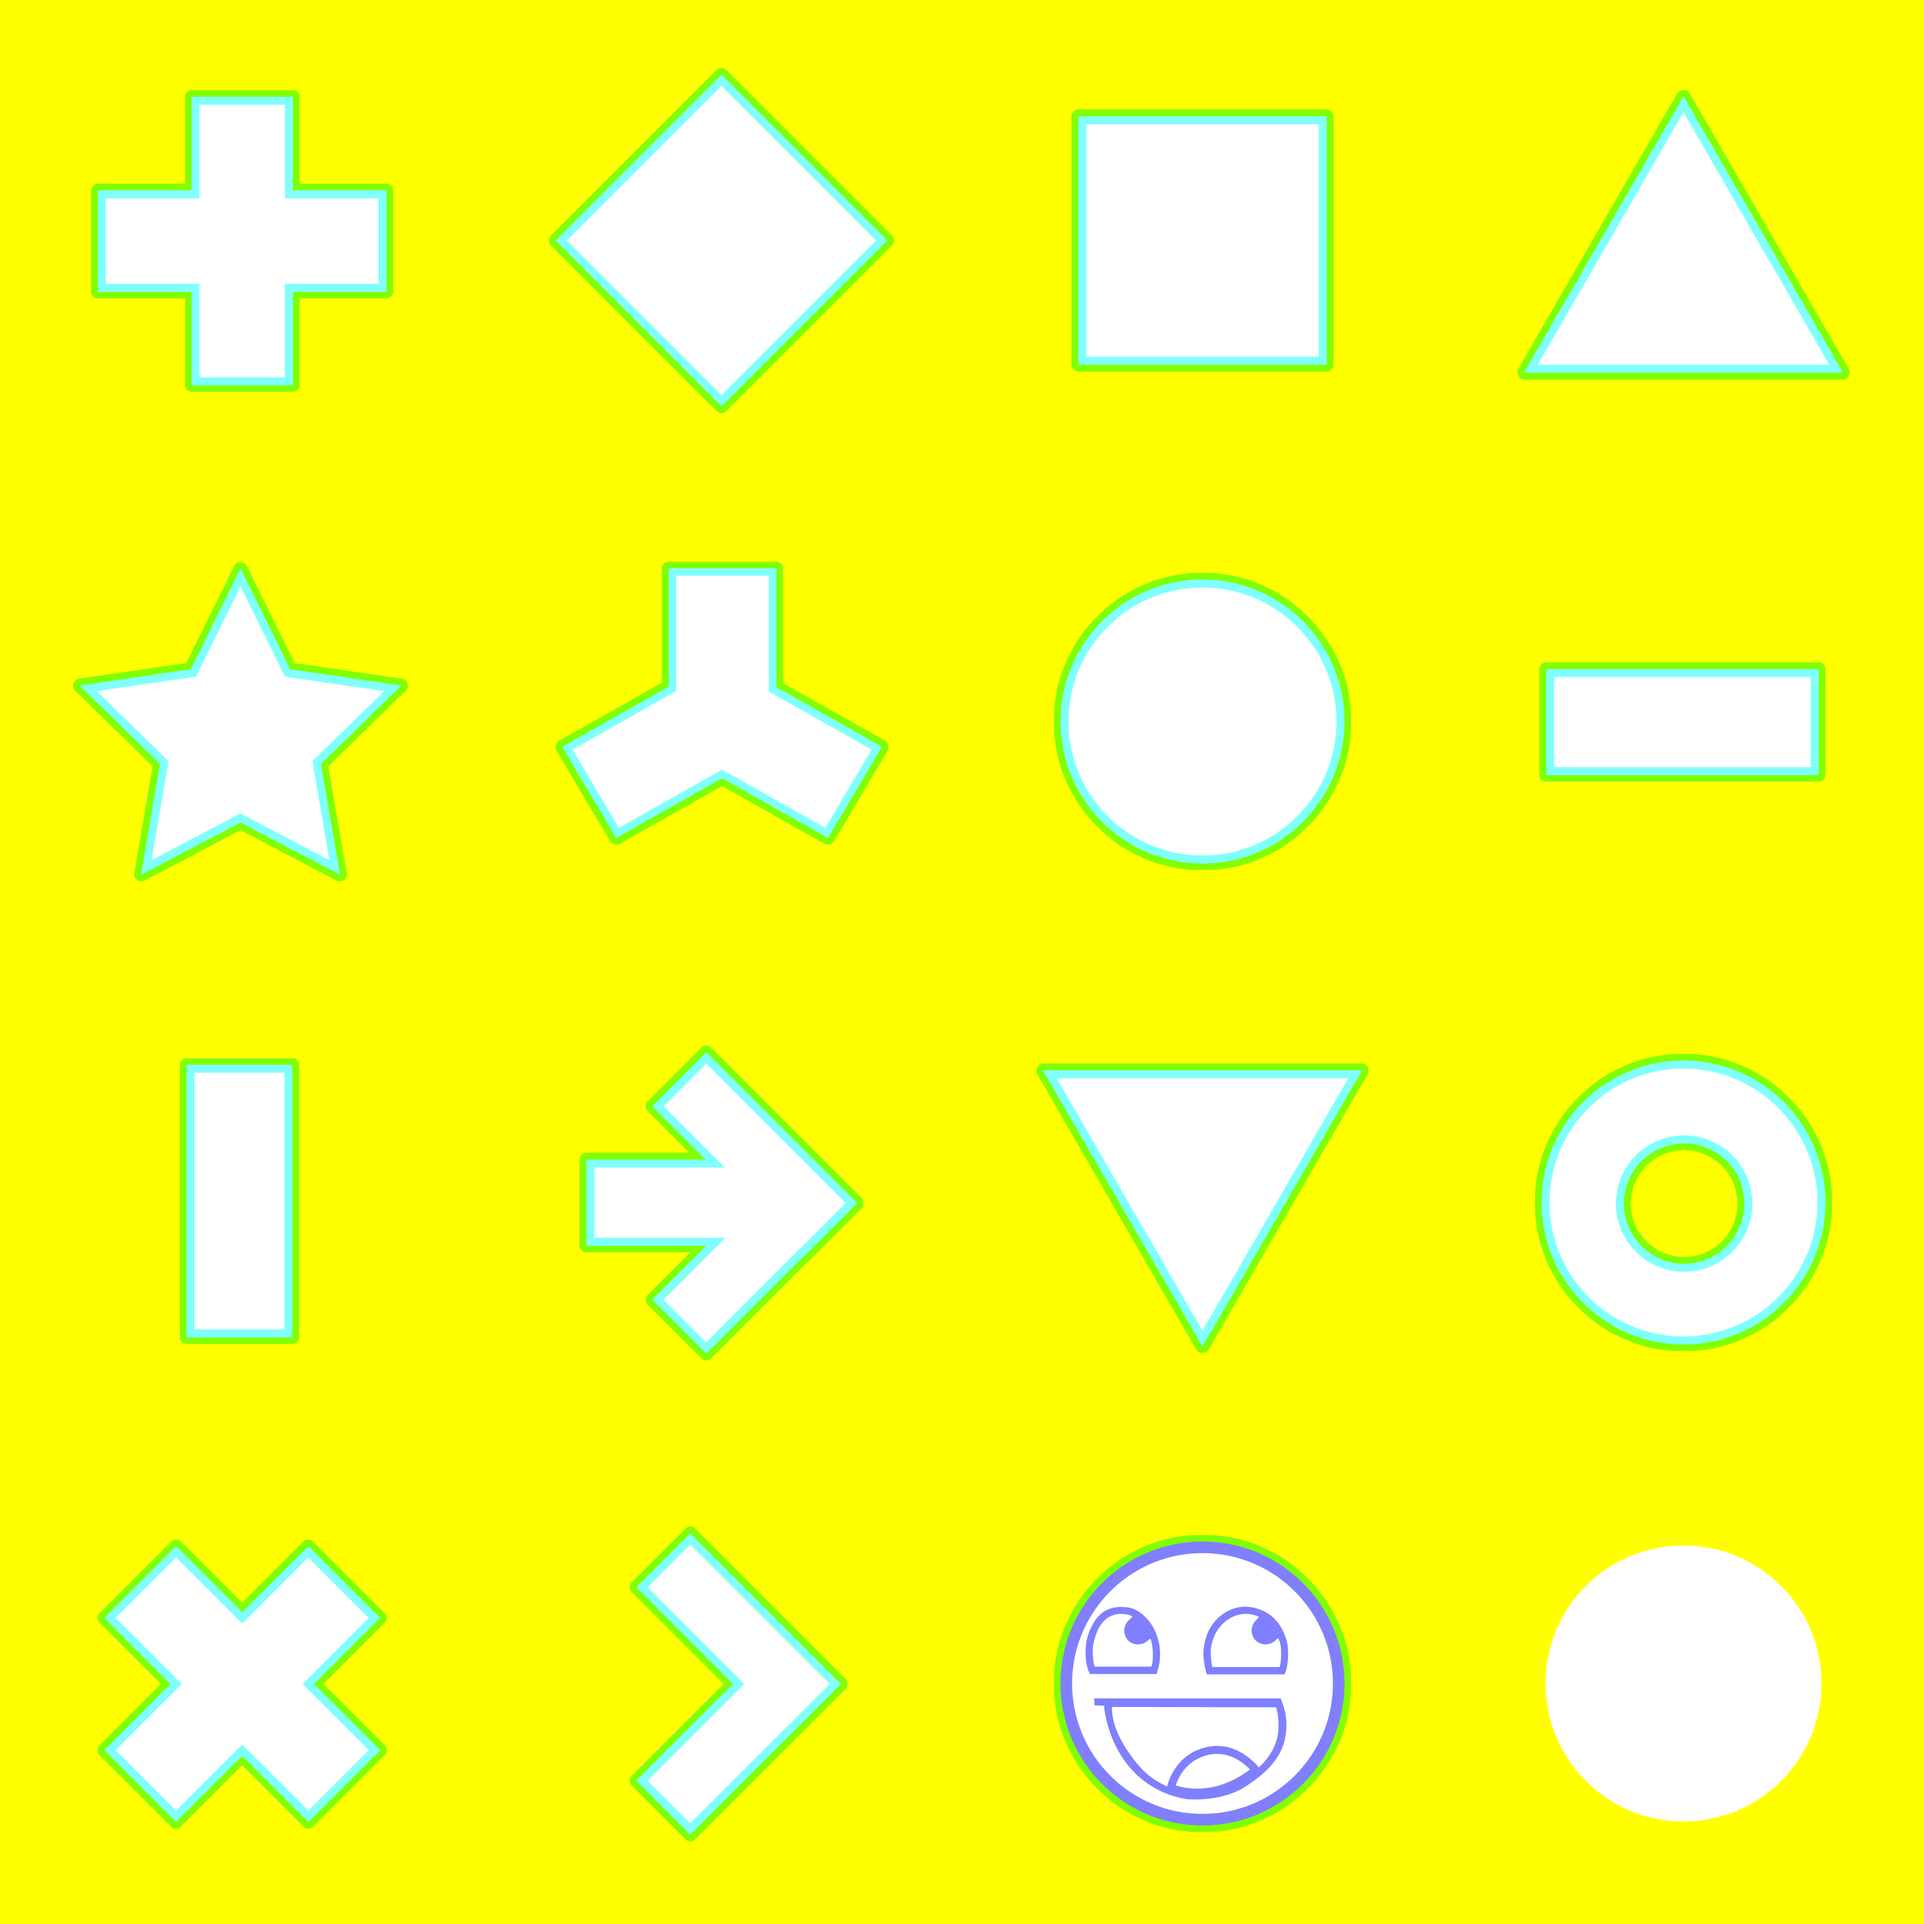
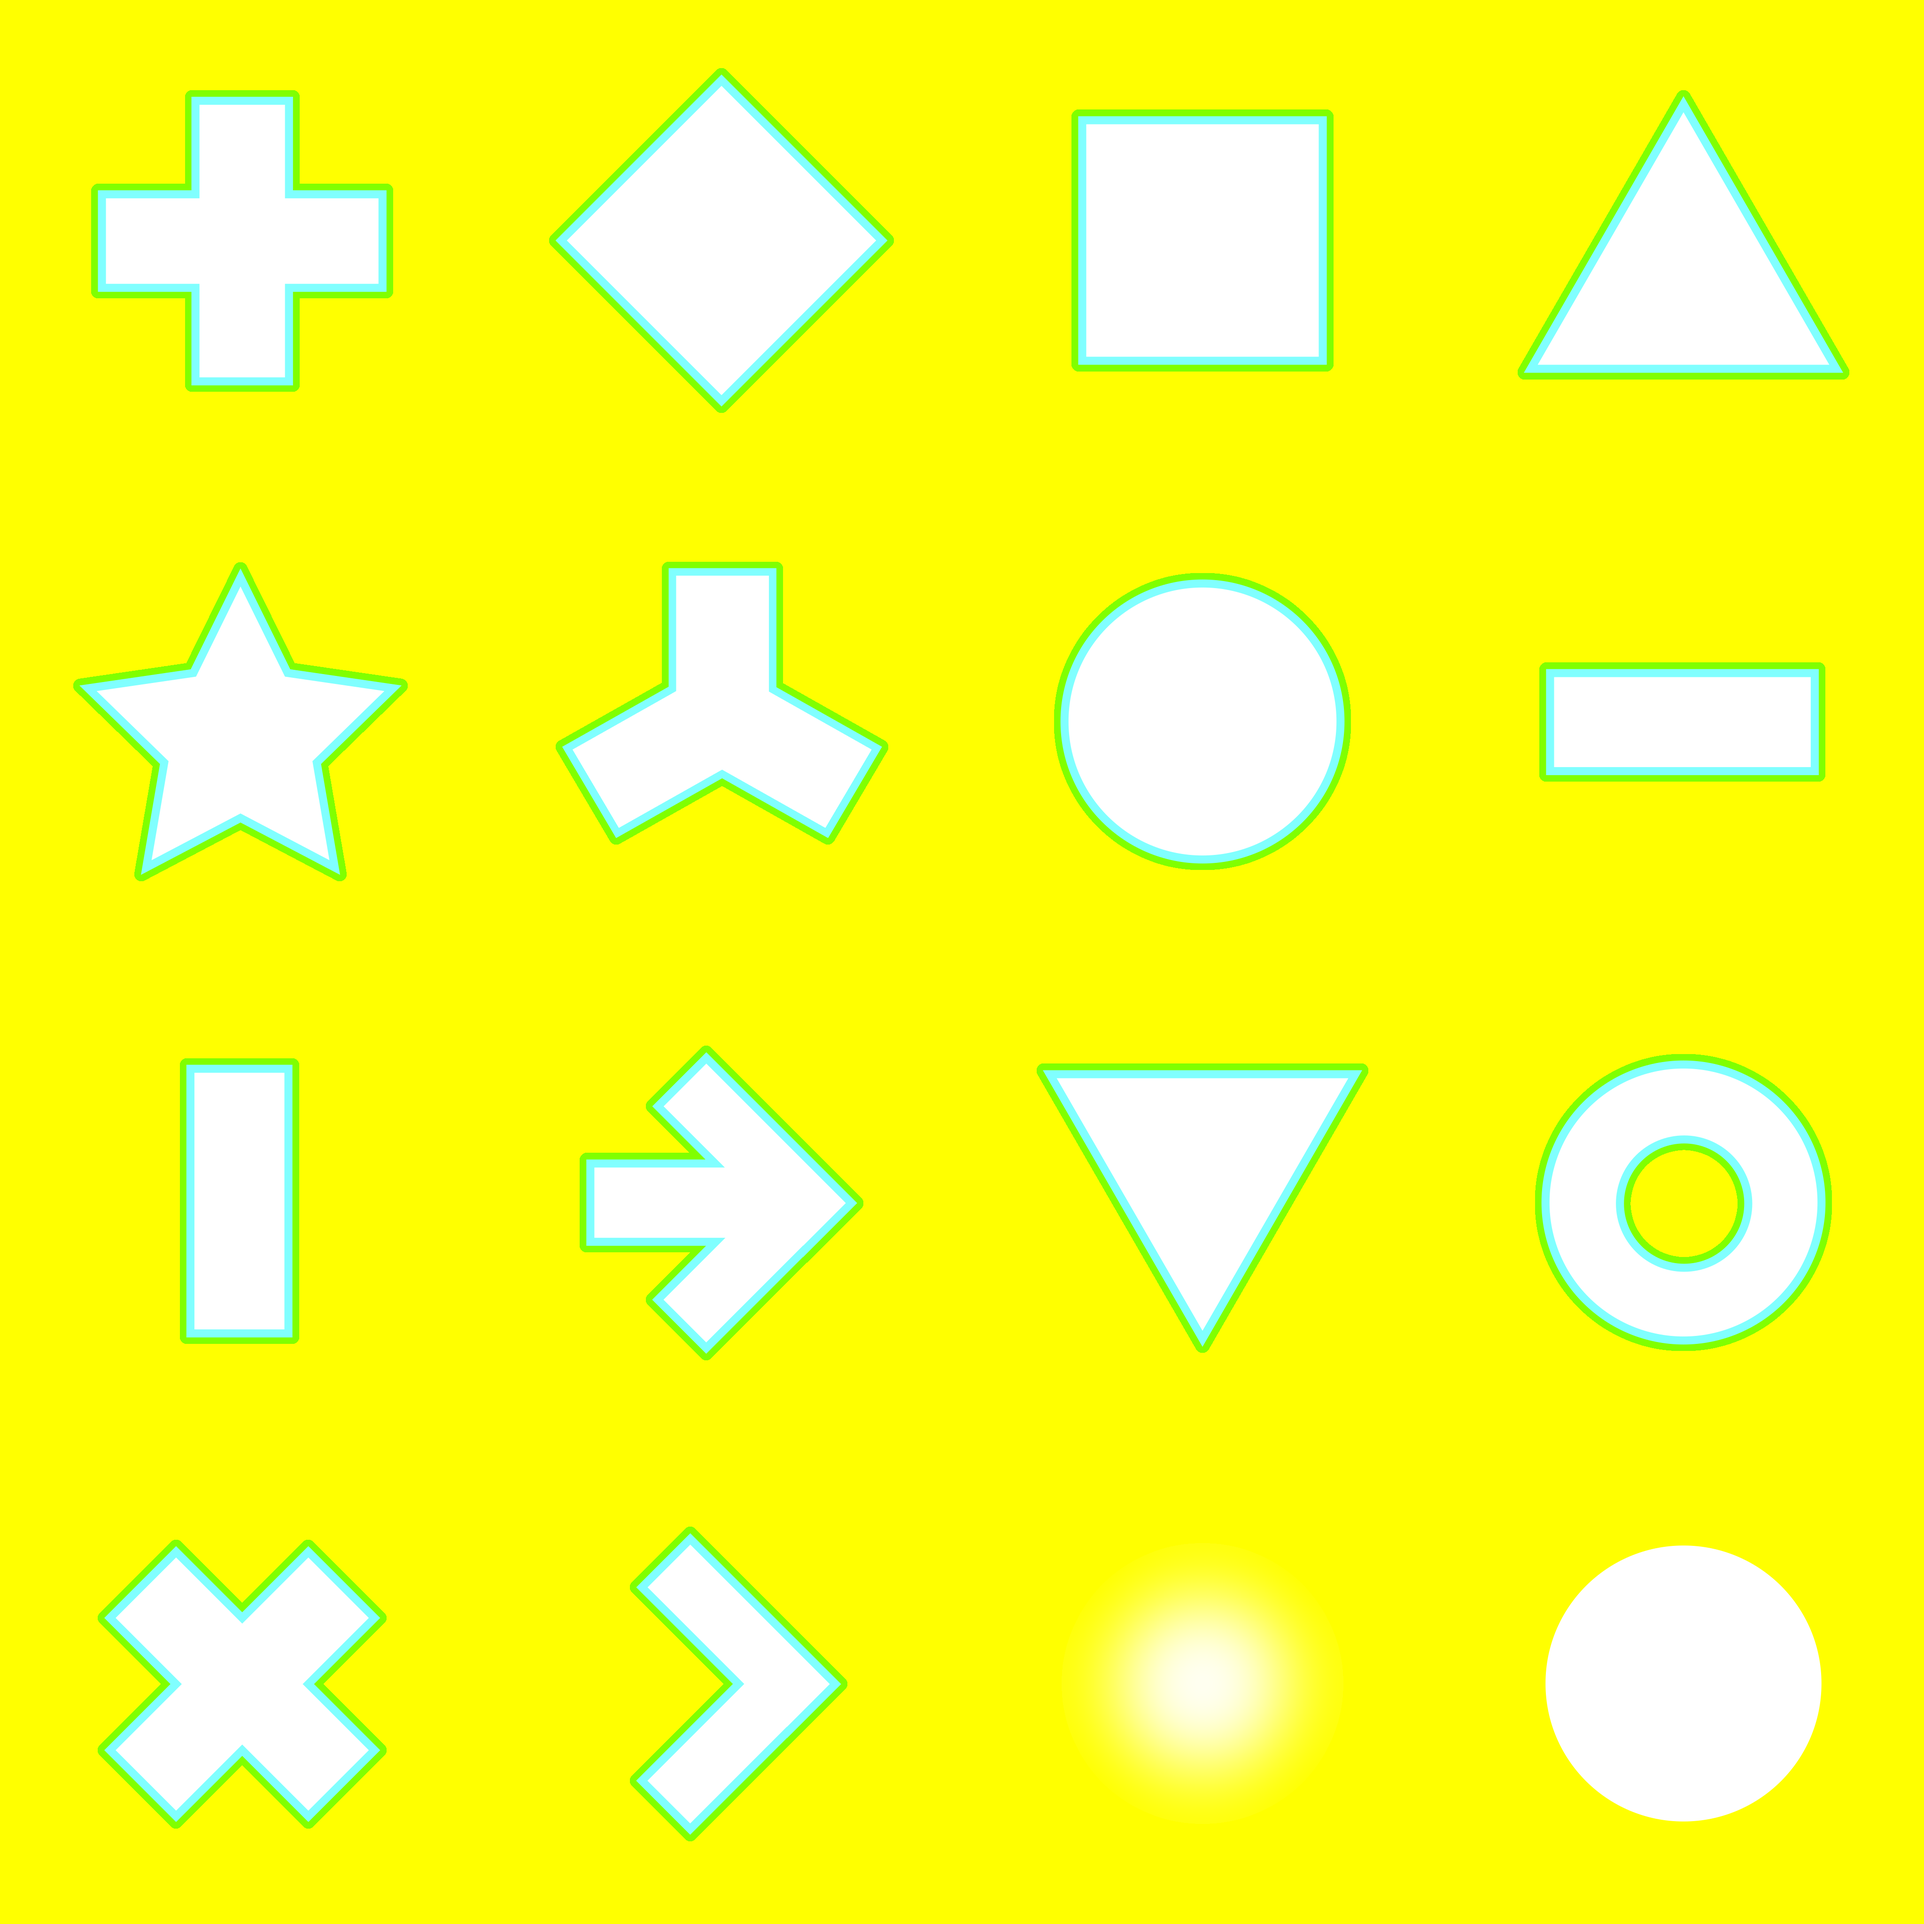
Add gaussian marker to the list of shapes

Changed region(s): [[0.5312, 0.7812, 0.7188, 0.9688]]

diff --git a/tissuumaps/static/js/utils/markerUtils.js b/tissuumaps/static/js/utils/markerUtils.js
@@ -10,8 +10,8 @@
 markerUtils = {
     //type must be like d3.symbolVoss
     _d3Symbols: [d3.symbolCross, d3.symbolDiamond, d3.symbolSquare, d3.symbolTriangle, d3.symbolStar, d3.symbolWye, d3.symbolCircle],  // Not used
-    _symbolStrings: ["cross", "diamond", "square", "triangle up", "star", "clobber", "disc", "hbar", "vbar", "tailed arrow", "triangle down", "ring", "x", "arrow"],
-    _symbolUnicodes: ["＋ cross", "◆ diamond", "■ square", "▲ triangle up", "★ star", "✇ clobber", "● disc", "▬ hbar", "▮ vbar", "➔ tailed arrow", "▼ triangle down", "○ ring", "⨯ x", "> arrow"],
+    _symbolStrings: ["cross", "diamond", "square", "triangle up", "star", "clobber", "disc", "hbar", "vbar", "tailed arrow", "triangle down", "ring", "x", "arrow", "gaussian"],
+    _symbolUnicodes: ["＋ cross", "◆ diamond", "■ square", "▲ triangle up", "★ star", "✇ clobber", "● disc", "▬ hbar", "▮ vbar", "➔ tailed arrow", "▼ triangle down", "○ ring", "⨯ x", "> arrow", "◌ gaussian"],
 }
 
 /** Adding piechart legend in the upper left corner */
